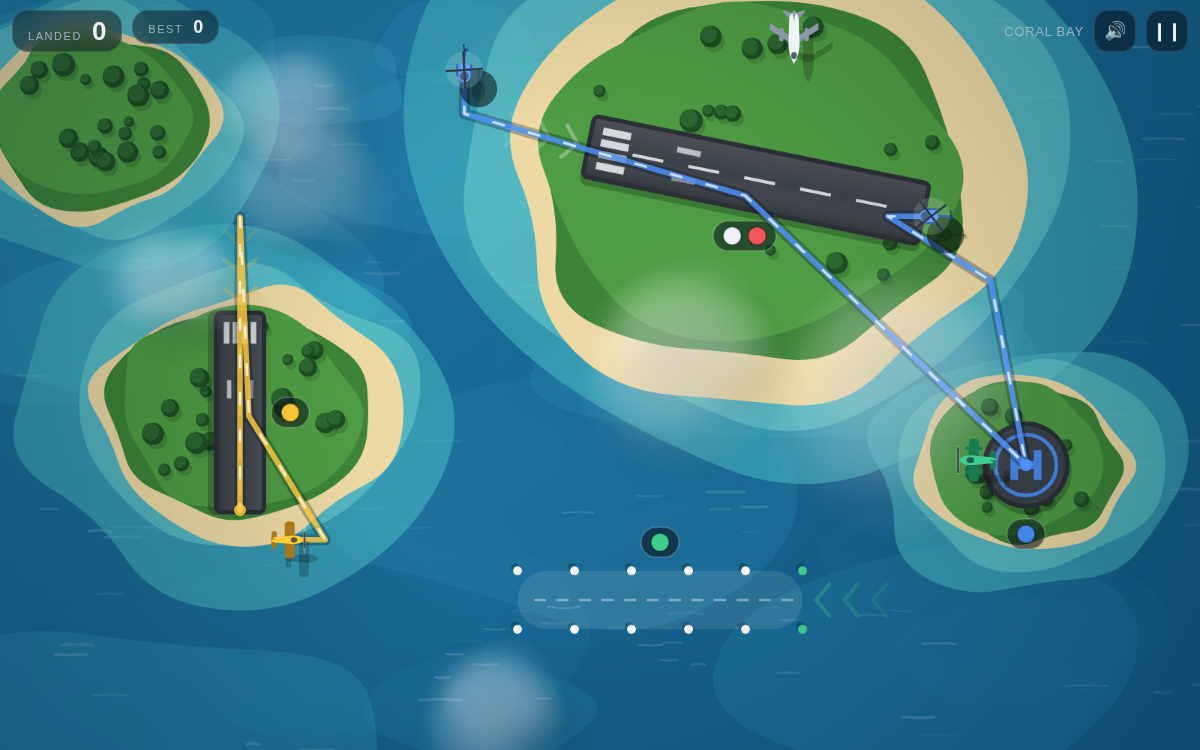
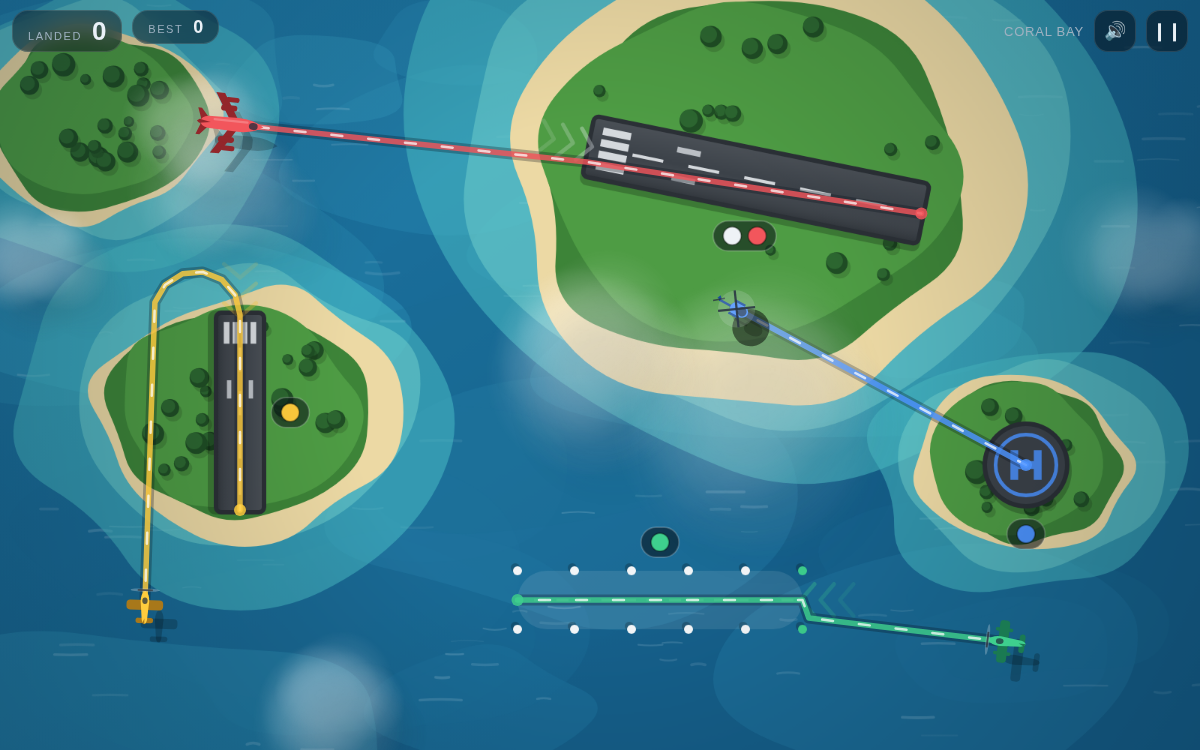
Refresh the README for one-way runways
The screenshots still showed the old two-way threshold markings and one of
them had caught a mid-air collision mid-frame, because they were captured
from live play and whatever it happened to be doing.

Compose them deliberately instead: tools/make-screenshots.js places a few
aircraft of each type, routes each to its zone and captures without letting
the simulation run, so the images are reproducible and actually show the
mechanic. Added as `npm run screenshots`.

The README's account of what the tests check was also out of date, and
understated the part that mattered. It now says that the suite asserts the
shape of a landing route rather than only its outcome, and why: early
versions landed every aircraft while sending it on a detour to get there,
so the tests passed and the game looked wrong.

Claude-Session: https://claude.ai/code/session_01FK6y4xgWU9Rk4KqDegcYhW

diff --git a/tools/make-screenshots.js b/tools/make-screenshots.js
@@ -1,0 +1,131 @@
+#!/usr/bin/env node
+/*
+ * Writes the README screenshots in docs/.
+ *
+ * The scenes are composed deliberately rather than captured from live play, so
+ * the images are reproducible and actually show what they are meant to: a few
+ * aircraft of each type, each with a drawn route onto its landing zone.
+ *
+ * Run with: npm run screenshots
+ */
+'use strict';
+
+const path = require('path');
+const fs = require('fs');
+const http = require('http');
+const { chromium } = require(process.env.PW || '/opt/node22/lib/node_modules/playwright');
+
+const ROOT = path.join(__dirname, '..');
+const OUT = path.join(ROOT, 'docs');
+
+const MIME = {
+  '.html': 'text/html; charset=utf-8',
+  '.js': 'text/javascript; charset=utf-8',
+  '.css': 'text/css; charset=utf-8',
+  '.png': 'image/png',
+  '.webmanifest': 'application/manifest+json'
+};
+
+function serve(root) {
+  return new Promise((resolve) => {
+    const server = http.createServer((req, res) => {
+      const rel = decodeURIComponent(req.url.split('?')[0]);
+      const file = path.join(root, rel === '/' ? 'index.html' : rel);
+      if (!file.startsWith(root)) { res.writeHead(403).end(); return; }
+      fs.readFile(file, (err, data) => {
+        if (err) { res.writeHead(404).end(); return; }
+        res.writeHead(200, { 'Content-Type': MIME[path.extname(file)] || 'application/octet-stream' });
+        res.end(data);
+      });
+    });
+    server.listen(0, '127.0.0.1', () => resolve({ server, port: server.address().port }));
+  });
+}
+
+/*
+ * Each entry places aircraft as a fraction of the world size and routes them to
+ * the named zone. Positions are chosen so the routes read clearly and do not
+ * overlap the HUD.
+ */
+const SCENES = {
+  airfield: [
+    { type: 'jet', at: [0.14, 0.62], zone: 'main' },
+    { type: 'jumbo', at: [0.32, 0.16], zone: 'main' },
+    { type: 'prop', at: [0.60, 0.86], zone: 'strip' },
+    { type: 'heli', at: [0.88, 0.44], zone: 'pad' }
+  ],
+  coralbay: [
+    { type: 'jumbo', at: [0.16, 0.16], zone: 'main' },
+    { type: 'prop', at: [0.12, 0.84], zone: 'strip' },
+    { type: 'seaplane', at: [0.86, 0.86], zone: 'water' },
+    { type: 'heli', at: [0.60, 0.40], zone: 'pad' }
+  ],
+  taskforce: [
+    { type: 'jet', at: [0.10, 0.66], zone: 'deck' },
+    { type: 'prop', at: [0.52, 0.86], zone: 'amphib' },
+    { type: 'seaplane', at: [0.46, 0.44], zone: 'water' },
+    { type: 'heli', at: [0.86, 0.68], zone: 'pad' }
+  ]
+};
+
+async function main() {
+  fs.mkdirSync(OUT, { recursive: true });
+  const { server, port } = await serve(ROOT);
+  const browser = await chromium.launch();
+  const context = await browser.newContext({
+    viewport: { width: 1200, height: 750 },
+    deviceScaleFactor: 1
+  });
+  const page = await context.newPage();
+  const errors = [];
+  page.on('pageerror', (e) => errors.push(e.message));
+
+  // mark the tutorial hint as already seen so it does not sit over the traffic
+  await page.addInitScript(() => {
+    window.localStorage.setItem('flightcontrol.seenhelp.v1', 'true');
+  });
+  await page.goto(`http://127.0.0.1:${port}/`, { waitUntil: 'load' });
+  await page.waitForFunction('window.__fc && window.__fc.screen === "menu"');
+  await page.waitForTimeout(1500);
+  await page.screenshot({ path: path.join(OUT, 'menu.png') });
+  console.log('  menu.png');
+
+  for (const mapId of Object.keys(SCENES)) {
+    await page.evaluate(`window.__fc.start(${JSON.stringify(mapId)})`);
+    await page.waitForFunction('window.__fc.screen === "playing"');
+
+    await page.evaluate(`(function (scene) {
+      var g = window.__fc.game;
+      g.spawnTimer = Infinity;      // compose the scene, do not let traffic arrive
+      g.aircraft.length = 0;
+      scene.forEach(function (s, i) {
+        var a = new window.FC.Aircraft(s.type, g.W * s.at[0], g.H * s.at[1], 0);
+        a.entering = false;
+        g.aircraft.push(a);
+        var z = null;
+        for (var j = 0; j < g.zones.length; j++) if (g.zones[j].id === s.zone) z = g.zones[j];
+        var id = 'shot' + i;
+        if (!g.beginDrag(id, a.x, a.y)) return;
+        for (var k = 1; k <= 10; k++) {
+          g.dragTo(id, a.x + (z.x - a.x) * k / 10, a.y + (z.y - a.y) * k / 10);
+        }
+        g.endDrag(id, z.x, z.y);
+      });
+    })(${JSON.stringify(SCENES[mapId])})`);
+
+    // one frame to draw, and no simulation time so nothing drifts or collides
+    await page.waitForTimeout(350);
+    await page.screenshot({ path: path.join(OUT, `${mapId}.png`) });
+    console.log(`  ${mapId}.png`);
+  }
+
+  await browser.close();
+  server.close();
+
+  if (errors.length) {
+    console.error('page errors:', errors.slice(0, 3).join(' | '));
+    process.exit(1);
+  }
+}
+
+main().catch((err) => { console.error(err); process.exit(1); });

diff --git a/README.md b/README.md
@@ -81,12 +81,13 @@ Keyboard: `Esc` or `Space` to pause, `Enter` to start, `R` to fly again.
 `index.html` is generated. Edit the files in `src/` and rebuild.
 
 ```sh
-npm run build     # bundle src/ into the single-file index.html
-npm test          # engine unit tests (node --test)
-npm run verify    # drive the built game in headless Chromium, write screenshots
-npm run check     # all three
-npm run icons     # regenerate the app icons
-npm run serve     # static server on :8080
+npm run build        # bundle src/ into the single-file index.html
+npm test             # engine unit tests (node --test)
+npm run verify       # drive the built game in headless Chromium
+npm run check        # all three
+npm run icons        # regenerate the app icons
+npm run screenshots  # regenerate the images in docs/
+npm run serve        # static server on :8080
 ```
 
 ```
@@ -101,13 +102,34 @@ build.js          inlines the above into index.html.
 tools/verify.js   browser checks: plays every map with real pointer input,
                   resizes, pauses, crashes, and runs the whole thing again
                   from a file:// URL.
+tools/make-screenshots.js
+                  composes the scenes in docs/ deliberately, so the images
+                  are reproducible rather than whatever live play produced.
+tools/make-icons.js
+                  renders the app icons from the game's own vector artwork.
 ```
 
 The engine is deterministic given a seed, which is what makes the simulation
-testable without a browser: `npm test` plays complete games in Node and asserts
-that aircraft land, that routes snap to the correct approach, that unrouted
-traffic never escapes the map, and that arrivals are never spawned on top of
-existing traffic.
+testable without a browser. `npm test` plays complete games in Node and asserts
+that aircraft land, that unrouted traffic never escapes the map, and that
+arrivals are never spawned on top of existing traffic.
+
+It also asserts the *shape* of a landing route, not just its outcome, which is
+where the bugs actually were. Early versions happily landed every aircraft while
+sending it on a detour to get there: the tests said pass and the game looked
+wrong. So the suite now sweeps every landing zone against every aircraft type it
+accepts, from bearings all round the compass, and requires that each route
+
+- enters at the strip's single threshold rather than cutting in part-way,
+- rolls out to the far end,
+- never turns through more than 135 degrees anywhere along its length,
+- and stays within a bounded distance of the shortest route possible.
+
+That sweep is what found the real defects — a trim that left the aircraft on the
+wrong side of the threshold, an alignment check reading a meaningless bearing at
+close range, a redundant waypoint that made an aircraft hop backwards before
+setting off — and it rejected two plausible-looking fixes that made things
+worse.
 
 ## Credit
 
